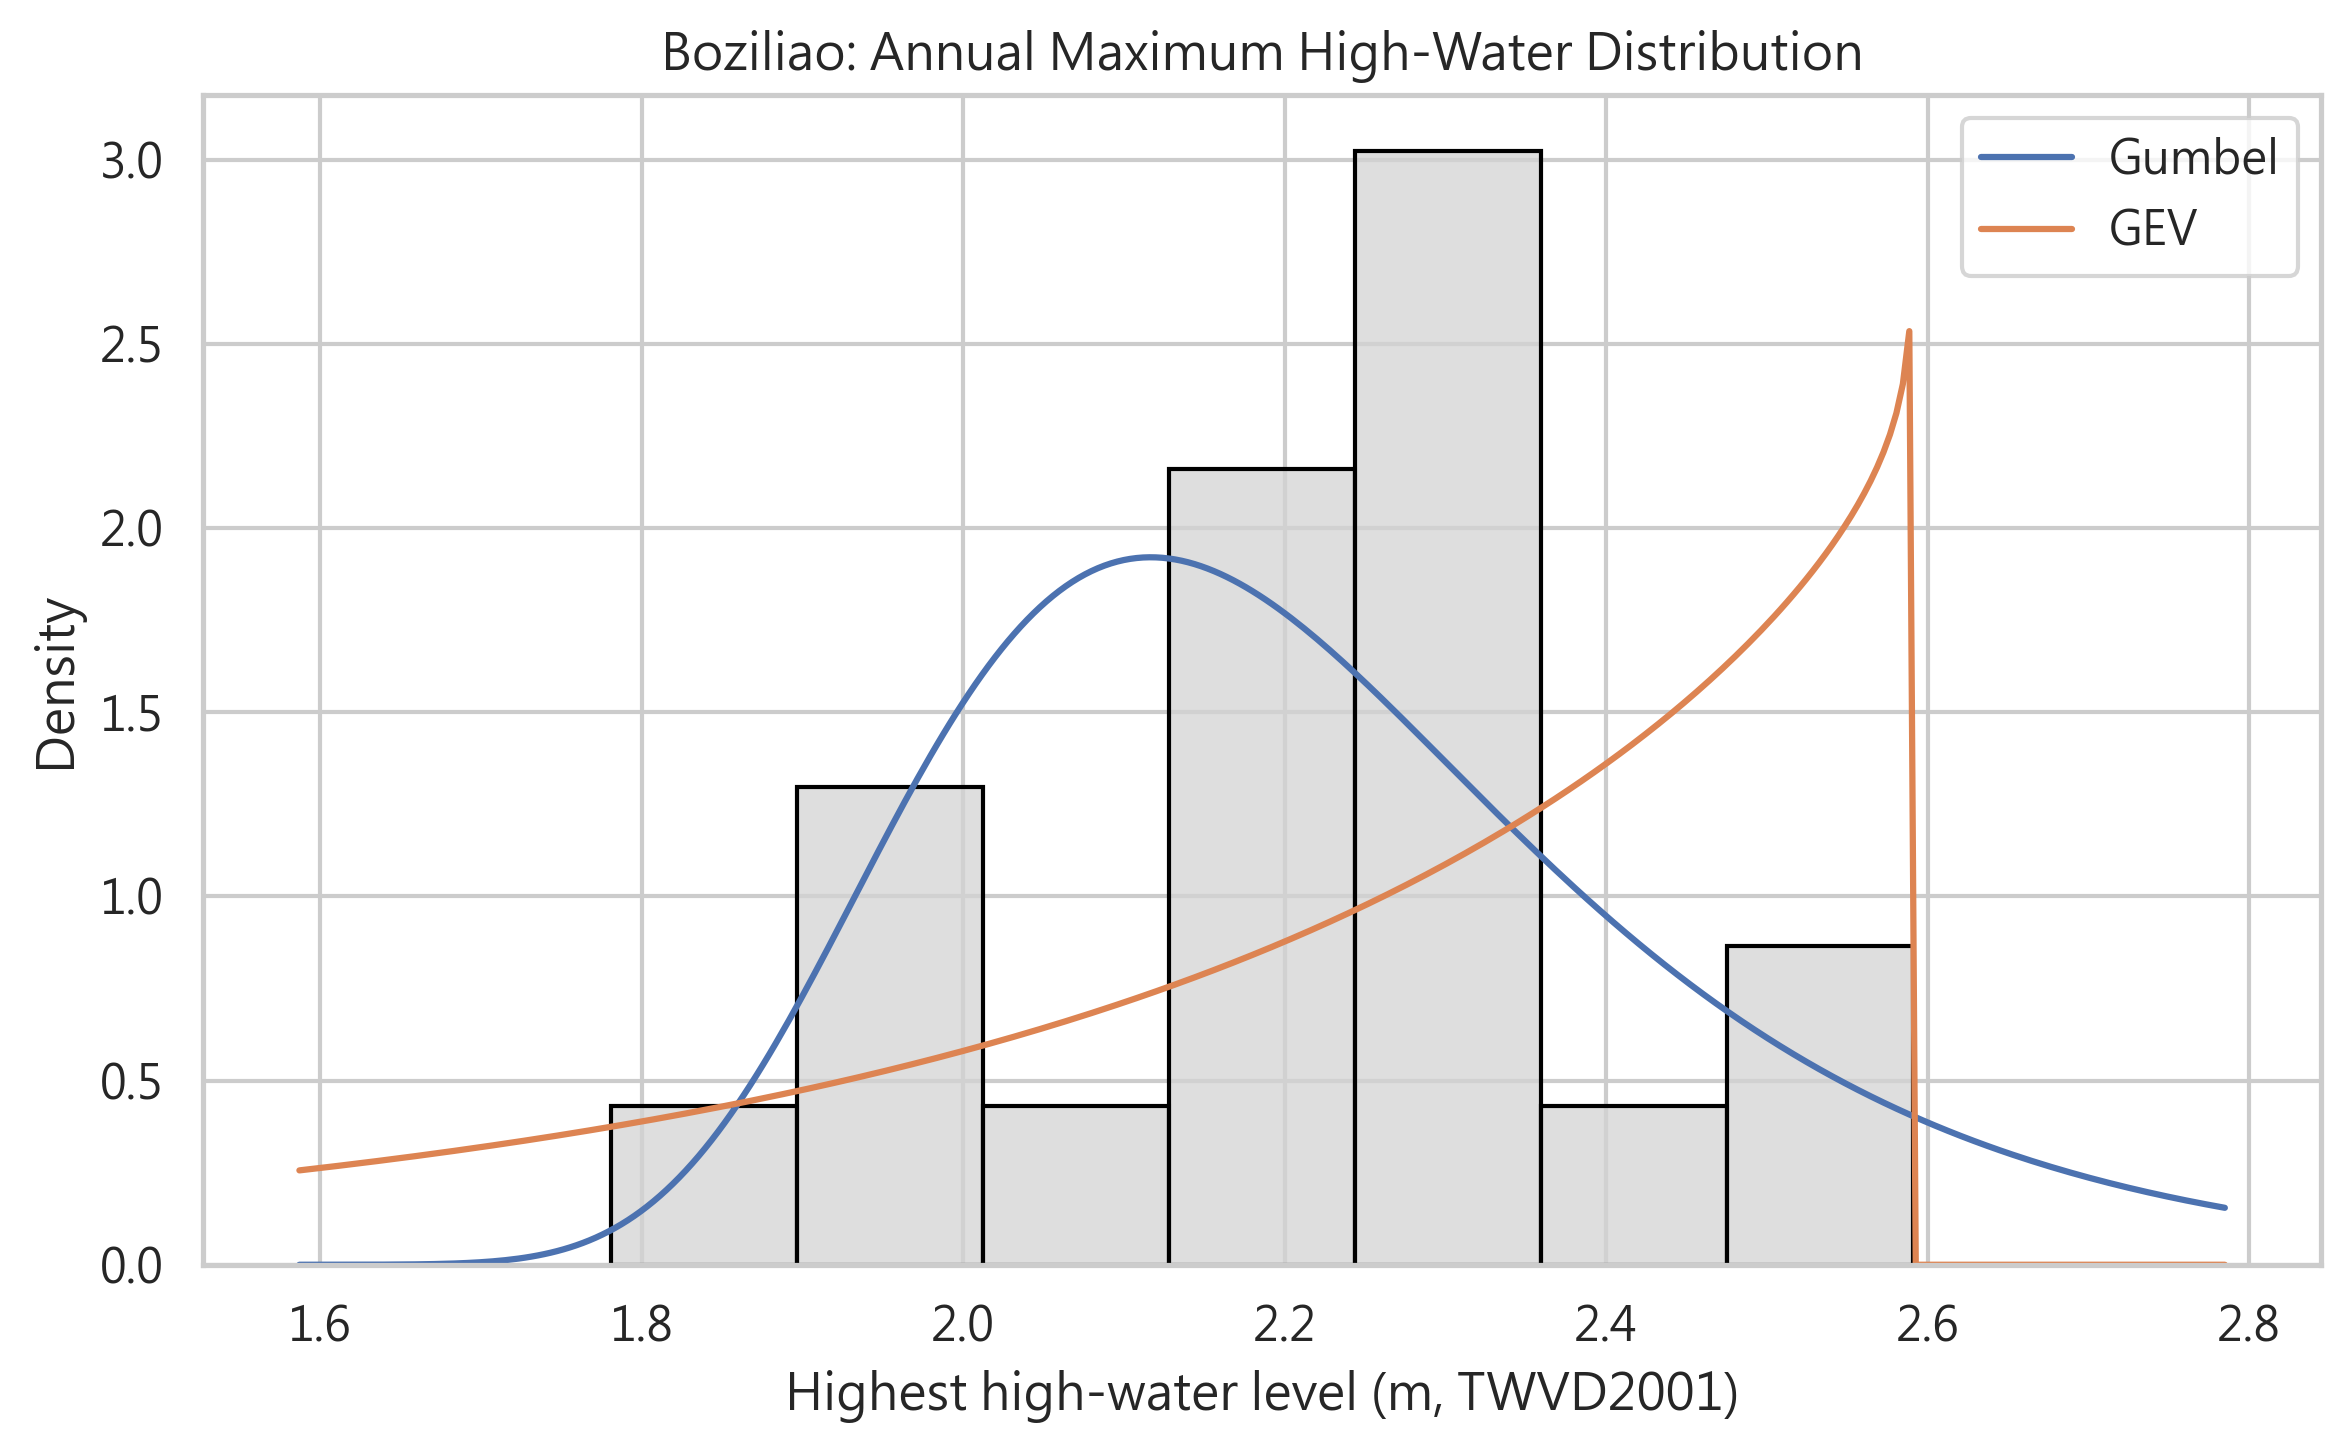
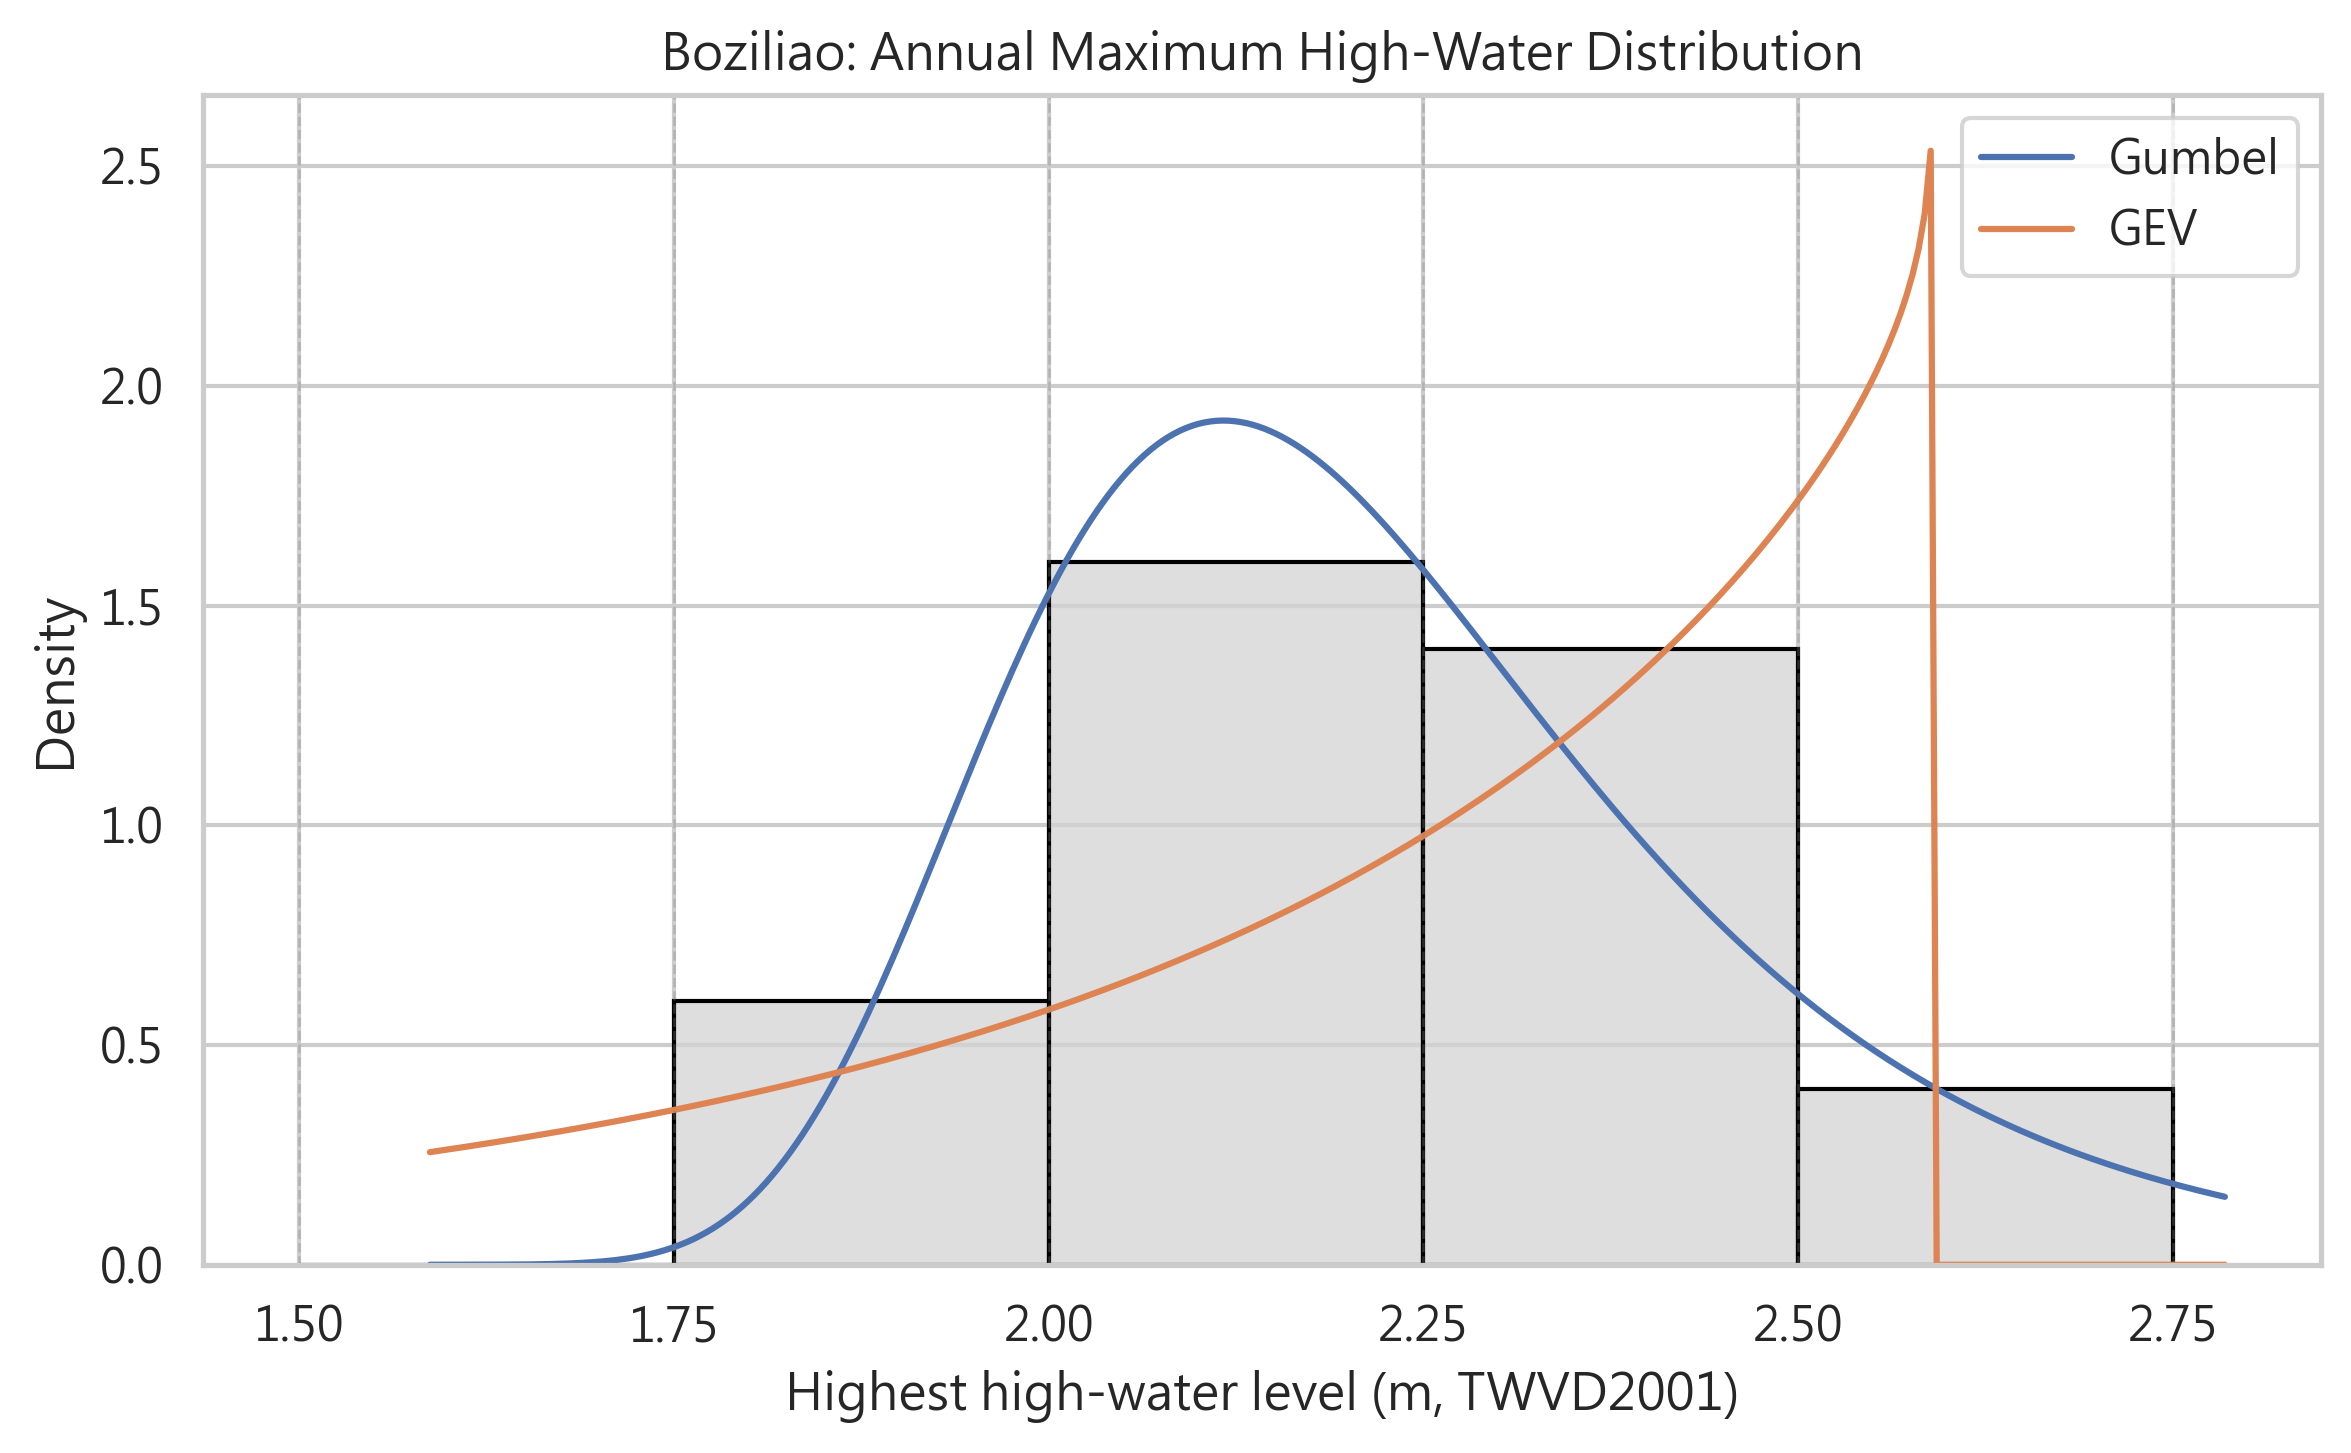
Refine extreme-value histogram binning
Use interpretable manual bin edges for Mailiao and Boziliao annual maximum high-water histograms, and align Boziliao x-axis ticks with bin edges.

diff --git a/scripts/02_analyze_yunlin_tides.py b/scripts/02_analyze_yunlin_tides.py
@@ -27,6 +27,10 @@ STATION_LABELS = {
     "麥寮潮位站": "Mailiao",
     "萡子寮潮位站": "Boziliao",
 }
+HISTOGRAM_BINS = {
+    "Mailiao": [2.0, 2.5, 3.0, 3.5, 4.0],
+    "Boziliao": [1.5, 1.75, 2.0, 2.25, 2.5, 2.75],
+}
 
 
 @dataclass
@@ -671,14 +675,19 @@ def plot_histogram_with_fits(
 ) -> None:
     padding = values.std(ddof=1) if len(values) > 1 else 0.1
     x_values = np.linspace(values.min() - padding, values.max() + padding, 300)
+    bins = HISTOGRAM_BINS[station_label]
 
     plt.figure(figsize=(8, 5))
-    sns.histplot(values, stat="density", bins="auto", color="lightgray", edgecolor="black")
+    sns.histplot(values, stat="density", bins=bins, color="lightgray", edgecolor="black")
     for fit in fits:
         plt.plot(x_values, distribution_pdf(x_values, fit), label=fit.distribution)
     plt.title(f"{station_label}: Annual Maximum High-Water Distribution")
     plt.xlabel("Highest high-water level (m, TWVD2001)")
     plt.ylabel("Density")
+    if station_label == "Boziliao":
+        plt.xticks(bins, [f"{edge:.2f}" for edge in bins])
+        for edge in bins:
+            plt.axvline(edge, color="gray", linestyle="--", linewidth=0.6, alpha=0.35)
     plt.legend()
     figure_number = "05" if slug == "mailiao" else "06"
     save_fig(f"{figure_number}_histogram_fitted_pdf_{slug}.png")
@@ -897,6 +906,14 @@ def write_summary(
         "## Extreme-Value Model Fit",
         "",
         model_metrics.to_markdown(index=False),
+        "",
+        (
+            "Histogram bin edges were manually selected using interpretable water-level intervals. "
+            "For Mailiao, 0.5 m intervals were used to highlight the isolated 2018 extreme event. "
+            "For Boziliao, narrower intervals were used because annual maximum high-water levels "
+            "were concentrated within a smaller range. The histograms are used for visual inspection "
+            "only; model assessment relies on AIC/BIC, Q-Q plots, return level plots, and sensitivity analysis."
+        ),
         "",
         "## Return Levels",
         "",

diff --git a/outputs/analysis_summary.md b/outputs/analysis_summary.md
@@ -104,6 +104,8 @@ Mailiao 2018 annual maximum high-water level is contributed by month 5: highest_
 | 麥寮潮位站          | Gumbel         |        2.37093   | -0.74187 |  1.24959  |  20 |
 | 麥寮潮位站          | GEV            |        4.28302   | -2.56604 |  0.421154 |  20 |
 
+Histogram bin edges were manually selected using interpretable water-level intervals. For Mailiao, 0.5 m intervals were used to highlight the isolated 2018 extreme event. For Boziliao, narrower intervals were used because annual maximum high-water levels were concentrated within a smaller range. The histograms are used for visual inspection only; model assessment relies on AIC/BIC, Q-Q plots, return level plots, and sensitivity analysis.
+
 ## Return Levels
 
 | station_name   | distribution   |   return_period_years |   annual_exceedance_probability |   return_level |